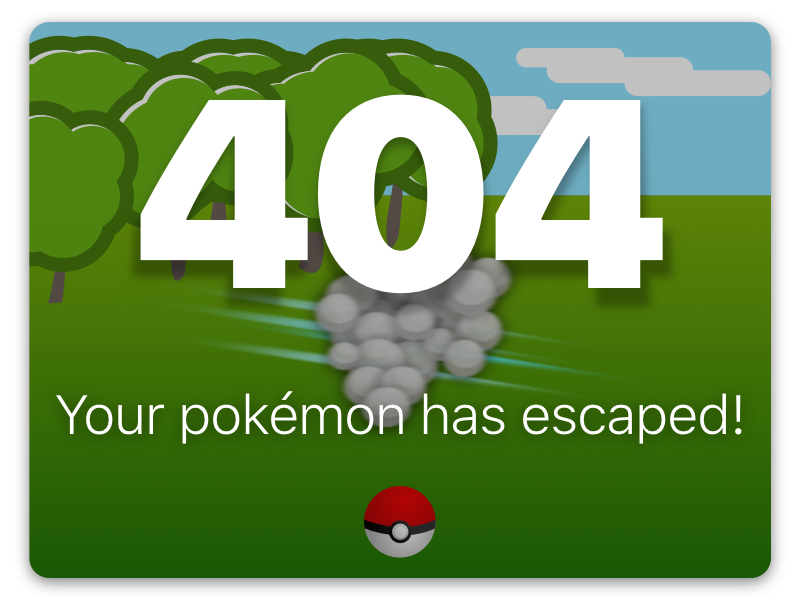
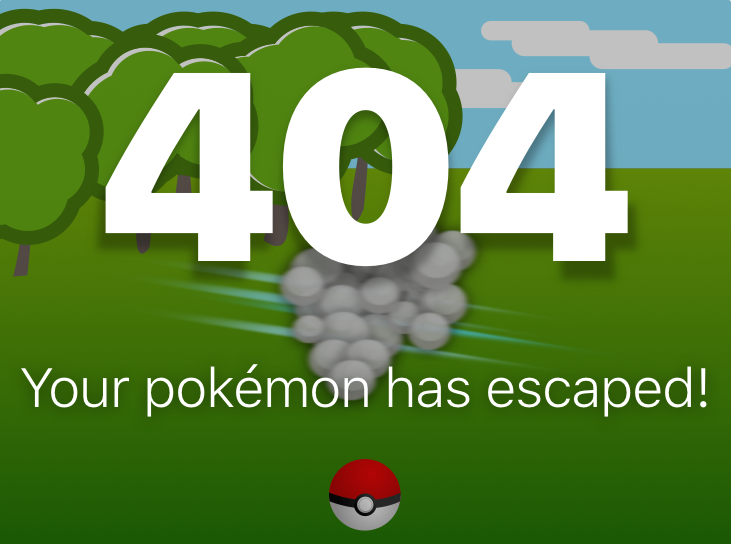
:sparkles: 404 page finished

diff --git a/src/components/app/App.jsx b/src/components/app/App.jsx
@@ -18,6 +18,7 @@ import SignupModal from "../auth/SignupModal";
 import HomePage from "../homePage/HomePage";
 import UserProfile from "../userProfile/UserProfile";
 import NotFoundPage from "../notFoundPage/NotFoundPage";
+import Unauthorized from "../unauthorized/Unauthorized";
 
 const AuthenticatedRoute = ({ component: Component, ...rest }) => (
   <Route
@@ -105,13 +106,14 @@ export class App extends Component {
             onSignup={this.handleLogin}
           />
 
-          <Box mt={10} width="70%" m="Auto">
+          <Box mt={10} m="10%">
             <Switch>
               <PublicRoute path="/" exact component={HomePage} />
               <AuthenticatedRoute path="/profile" component={UserProfile} />
 
-              <PublicRoute path="/404" component={NotFoundPage} />
-              <Redirect to="/404" />
+              <PublicRoute path="/pageNotFound" component={NotFoundPage} />
+              <PublicRoute path="/unauthorized" component={Unauthorized} />
+              <Redirect to="/pageNotFound" />
             </Switch>
           </Box>
         </Router>

diff --git a/src/components/notFoundPage/NotFoundPage.jsx b/src/components/notFoundPage/NotFoundPage.jsx
@@ -1,6 +1,6 @@
 import React from "react";
 import { Link } from "react-router-dom";
-// import PageNotFound from "../../images/404.png";
+import { Button } from "@material-ui/core";
 import PageNotFound from "../../images/page404.png";
 import "./NotFoundPage.css";
 
@@ -8,9 +8,13 @@ class NotFoundPage extends React.Component {
   render() {
     return (
       <div>
-        <img src={PageNotFound} className="centerImage" />
+        <img src={PageNotFound} className="center-image" alt="Not found" />
         <p style={{ textAlign: "center" }}>
-          <Link to="/">Go to Home </Link>
+          <Button variant="outlined" color="primary">
+            <Link to="/" className="custom-link">
+              Go to Home
+            </Link>
+          </Button>
         </p>
       </div>
     );

diff --git a/src/components/notFoundPage/NotFoundPage.css b/src/components/notFoundPage/NotFoundPage.css
@@ -1,6 +1,10 @@
-.centerImage {
+.center-image {
   display: block;
   margin-left: auto;
   margin-right: auto;
-  width: 100%;
+}
+
+.custom-link {
+  text-decoration: none;
+  color: rgba(204, 88, 3, 1) !important;
 }
